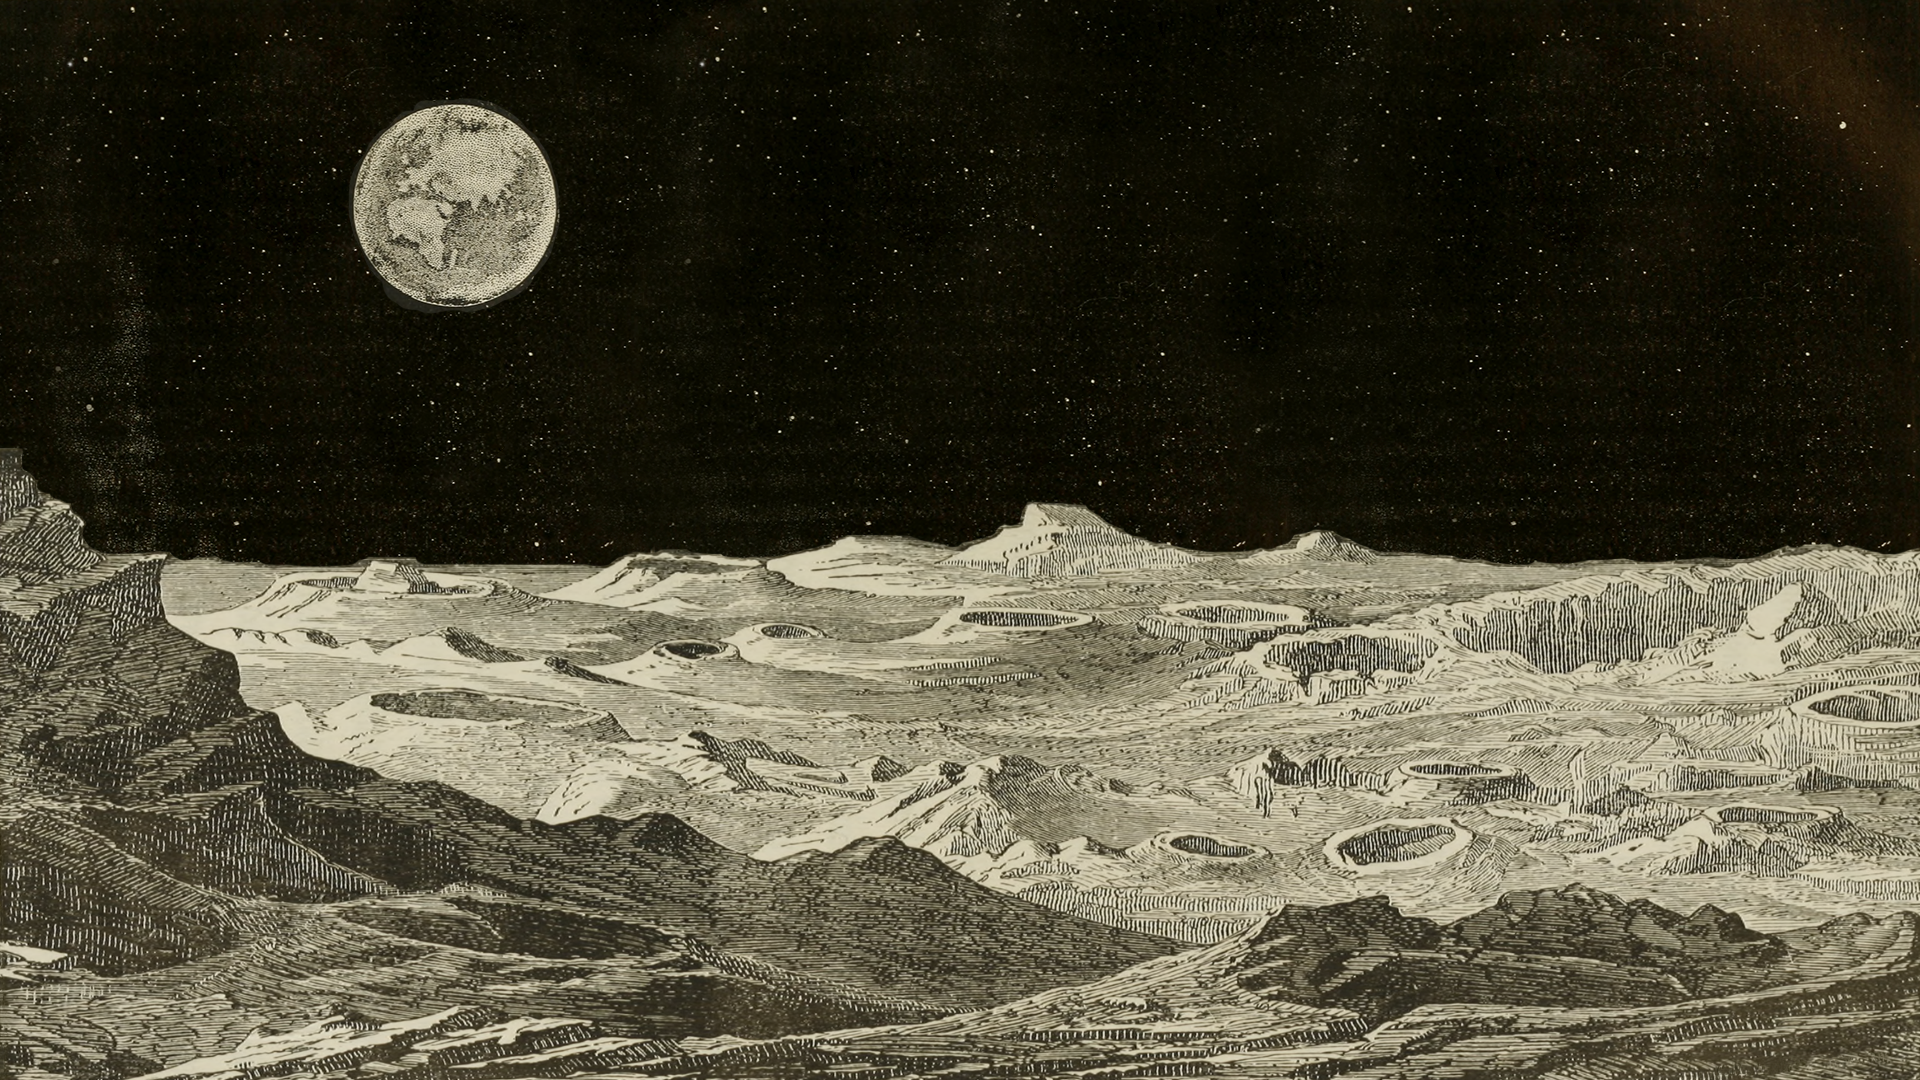
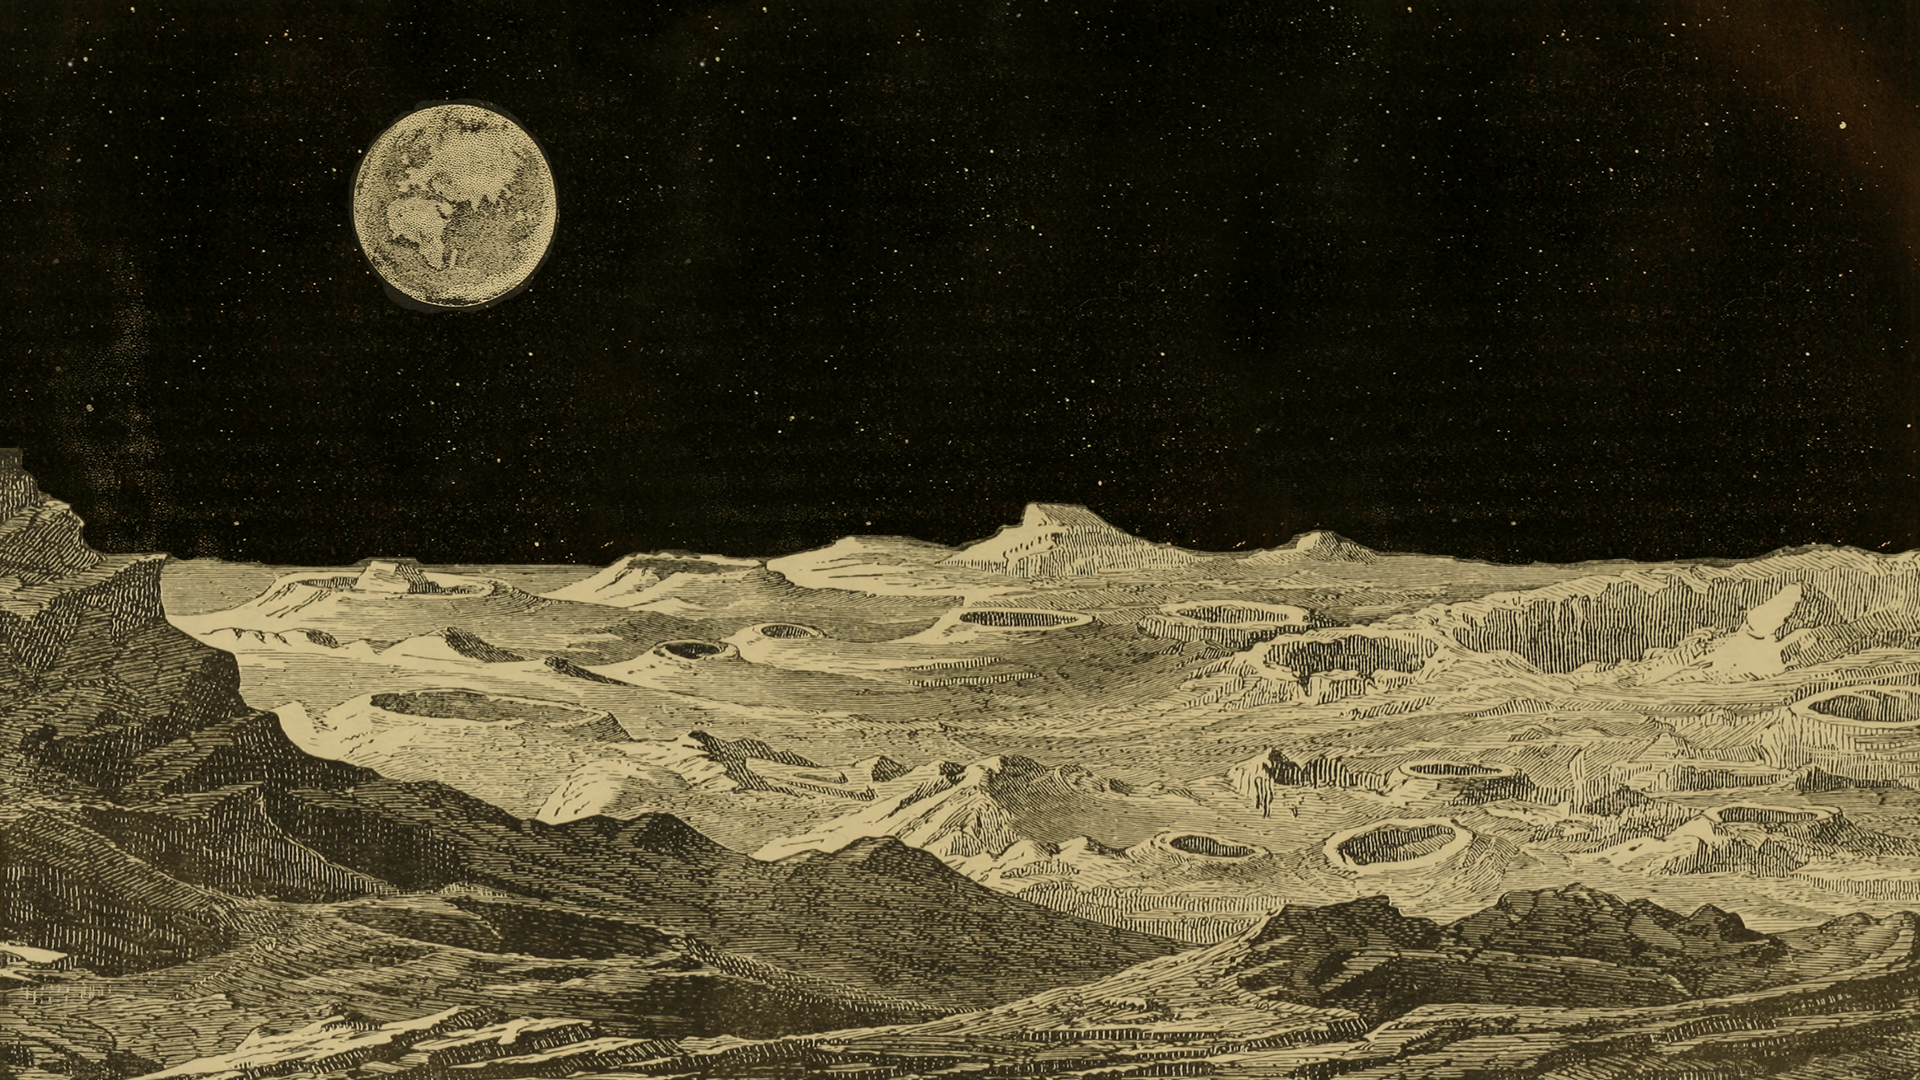
new pic

Changed region(s): [[0.0, 0.4583, 1.0, 1.0], [0.1875, 0.0917, 0.3125, 0.275]]

diff --git a/src/style/main.scss b/src/style/main.scss
@@ -5,7 +5,8 @@
 
 body {
     // background-image: url("/myco.png");
-    color: #bab39a;
+    // color: #bab39a;
+    color: #f0dca9;
     // color: #cbc3a7;;
     background-color: black;
     // background-size: cover;
